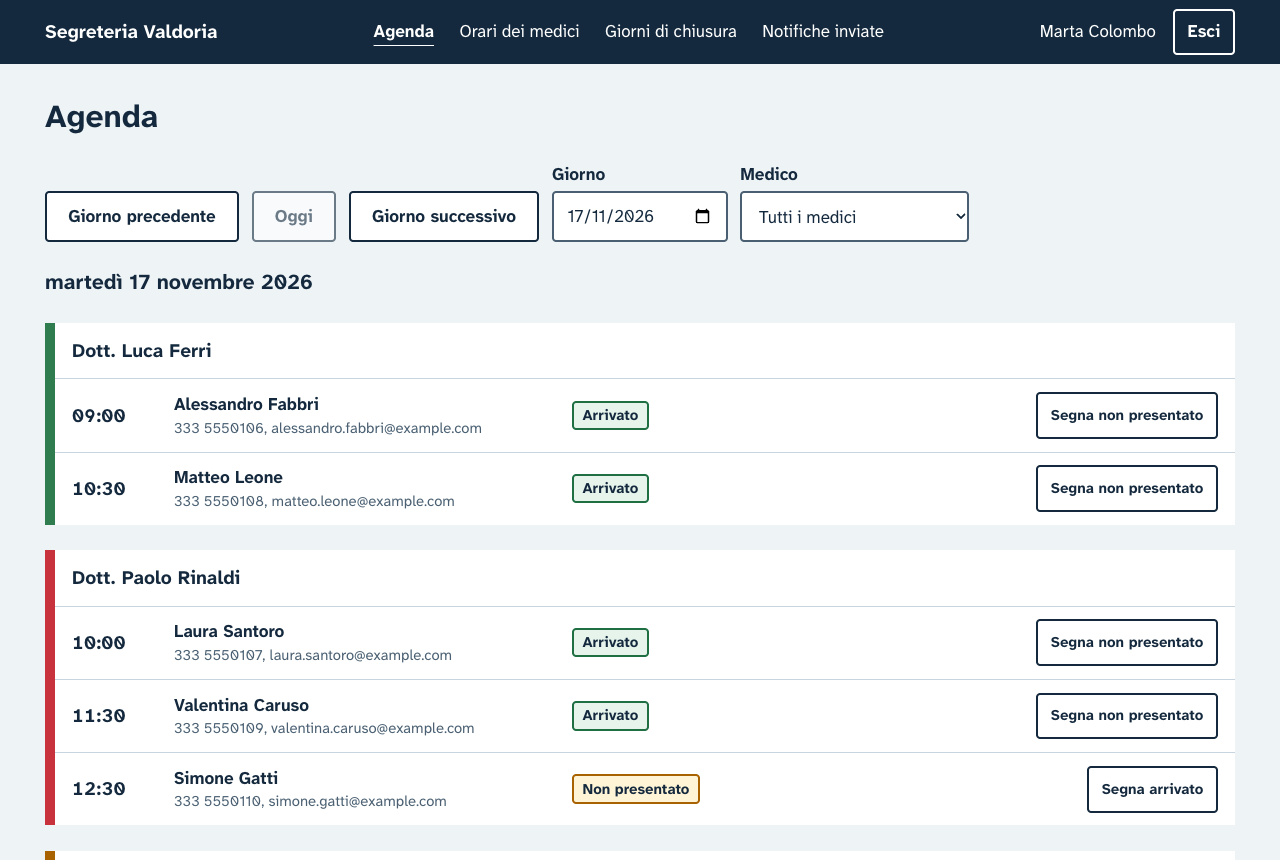
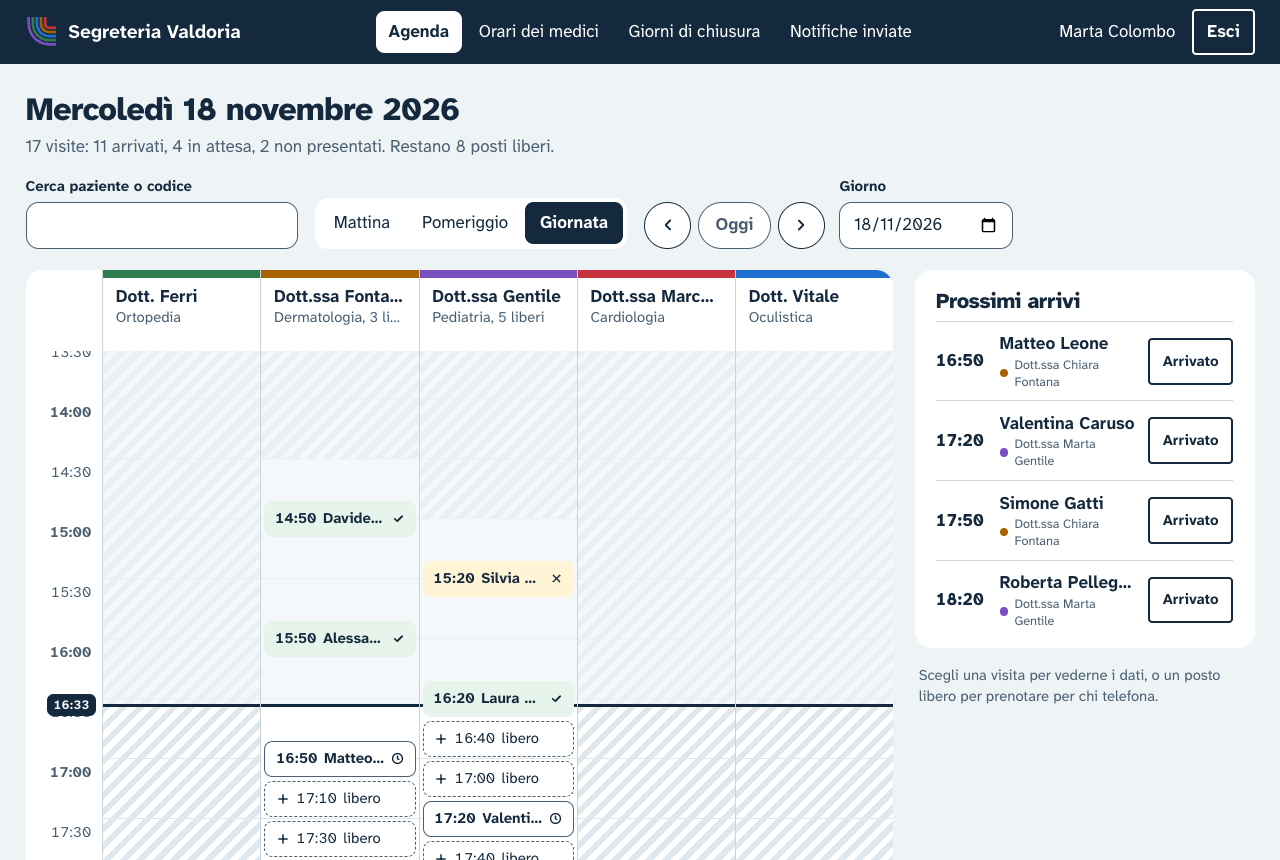
docs: new screenshots, a journey animation and a preview image
The README opens on the line map, shows the booking with its ticket and the front desk grid, and plays a fifteen-second animation of the journey. docs/social-preview.png is the image to set as the repository's social preview.

diff --git a/e2e/screenshots/readme.spec.ts b/e2e/screenshots/readme.spec.ts
@@ -2,32 +2,44 @@ import { test, type Page } from '@playwright/test';
 
 const FOLDER = '../docs/screenshots';
 
+/** Finished animations are fast-forwarded, so every picture shows the page at rest. */
 async function capture(page: Page, name: string, fullPage: boolean) {
   await page.screenshot({ path: `${FOLDER}/${name}.png`, fullPage, animations: 'disabled' });
 }
 
-async function openBooking(page: Page) {
+async function openHome(page: Page) {
   await page.goto('/');
-  await page.getByRole('button', { name: 'Cardiologia' }).waitFor();
+  // The first free slots arrive with a request of their own.
+  await page.getByText(/^Posti liberi aggiornati alle/).waitFor();
+}
+
+async function chooseFirstTime(page: Page, specialty: string, doctor: string) {
+  await page.getByRole('link', { name: specialty }).click();
+  await page.getByRole('link', { name: doctor }).click();
+  const firstTime = page.getByRole('button', { name: /^\d{1,2}:\d{2}$/ }).first();
+  await firstTime.waitFor();
+  return firstTime;
+}
+
+async function fillDetails(page: Page) {
+  await page.getByLabel('Nome e cognome').fill('Giulia Bianchi');
+  await page.getByLabel('Email').fill('giulia.bianchi@example.com');
+  await page.getByLabel('Telefono').fill('333 5550142');
 }
 
 test.describe('on a phone', () => {
   test.skip(({ isMobile }) => !isMobile);
 
   test('a patient books a visit', async ({ page }) => {
-    await openBooking(page);
+    await openHome(page);
     await capture(page, 'telefono-1-specialita', true);
 
-    await page.getByRole('button', { name: 'Cardiologia' }).click();
-    await page.getByRole('button', { name: 'Dott.ssa Elena Marchetti' }).click();
-    const firstTime = page.getByRole('button', { name: /^\d{2}:\d{2}$/ }).first();
-    await firstTime.waitFor();
-    await capture(page, 'telefono-2-orari', true);
+    const firstTime = await chooseFirstTime(page, 'Cardiologia', 'Dott.ssa Elena Marchetti');
+    // Not the whole page: the ticket waits at the bottom of the screen.
+    await capture(page, 'telefono-2-orari', false);
 
     await firstTime.click();
-    await page.getByLabel('Nome e cognome').fill('Giulia Bianchi');
-    await page.getByLabel('Email').fill('giulia.bianchi@example.com');
-    await page.getByLabel('Telefono').fill('333 5550142');
+    await fillDetails(page);
     await page.getByRole('button', { name: 'Conferma prenotazione' }).click();
     await page.getByRole('heading', { name: 'Prenotazione confermata' }).waitFor();
     await capture(page, 'telefono-3-conferma', true);
@@ -37,14 +49,11 @@ test.describe('on a phone', () => {
 test.describe('on a computer', () => {
   test.skip(({ isMobile }) => isMobile);
 
-  test('the booking page', async ({ page }) => {
-    await openBooking(page);
-    await page.getByRole('button', { name: 'Ortopedia' }).click();
-    await page.getByRole('button', { name: 'Dott. Luca Ferri' }).click();
-    await page
-      .getByRole('button', { name: /^\d{2}:\d{2}$/ })
-      .first()
-      .waitFor();
+  test('the home page and a booking', async ({ page }) => {
+    await openHome(page);
+    await capture(page, 'computer-pagina-iniziale', false);
+
+    await chooseFirstTime(page, 'Ortopedia', 'Dott. Luca Ferri');
     await capture(page, 'computer-prenotazione', true);
   });
 
@@ -53,7 +62,7 @@ test.describe('on a computer', () => {
     await page.getByLabel('Nome utente').fill('segreteria');
     await page.getByLabel('Password').fill('segreteria-demo');
     await page.getByRole('button', { name: 'Accedi' }).click();
-    await page.getByRole('region').first().waitFor();
+    await page.getByRole('region', { name: 'Griglia del giorno' }).waitFor();
     await capture(page, 'computer-agenda', false);
 
     await page.getByRole('link', { name: 'Notifiche inviate' }).click();

diff --git a/README.md b/README.md
@@ -8,13 +8,17 @@ Prenotazione delle visite per un poliambulatorio: il paziente prenota senza acco
 
 > Progetto dimostrativo. Il «Poliambulatorio Valdoria» non esiste: medici, pazienti e orari sono inventati e non c'è alcun dato sanitario reale.
 
-![La pagina di prenotazione: specialità e medico scelti, orari liberi del giorno](docs/screenshots/computer-prenotazione.png)
+![La pagina iniziale: ogni specialità è una linea colorata che scende da «Sei qui» e piega verso il suo nome, con i medici e il primo posto libero](docs/screenshots/computer-pagina-iniziale.png)
 
 <p>
-  <img src="docs/screenshots/telefono-1-specialita.png" alt="Sul telefono: scelta della specialità" width="240">
-  <img src="docs/screenshots/telefono-2-orari.png" alt="Sul telefono: scelta del giorno e dell'ora" width="240">
-  <img src="docs/screenshots/telefono-3-conferma.png" alt="Sul telefono: tagliando di conferma con il codice" width="240">
+  <img src="docs/screenshots/telefono-1-specialita.png" alt="Sul telefono: le linee delle specialità con il primo posto libero" width="240">
+  <img src="docs/screenshots/telefono-2-orari.png" alt="Sul telefono: la fascia della specialità con i passi, giorni e orari, il tagliando in basso" width="240">
+  <img src="docs/screenshots/telefono-3-conferma.png" alt="Sul telefono: il tagliando stampato con codice e codice QR" width="240">
 </p>
+
+L'interfaccia prende a prestito la segnaletica degli ospedali: una linea colorata per ogni specialità, da seguire fino al tagliando, che si stampa mentre scegli. Le scelte sono spiegate nella [decisione sul linguaggio visivo](docs/adr/0006-wayfinding-as-visual-language.md).
+
+![Il percorso in quindici secondi: le linee si disegnano, si sceglie la specialità, il medico e l'ora, e il tagliando esce dalla fessura con il codice](docs/percorso.gif)
 
 ## Provalo in un minuto
 
@@ -30,9 +34,9 @@ Quando i container sono pronti apri <http://localhost:8080>. Il primo avvio comp
 
 | Cosa provare | Dove |
 |---|---|
-| Prenotare una visita | <http://localhost:8080> |
-| Rivedere o annullare con codice ed email | «La mia prenotazione» |
-| Agenda, orari, chiusure, email inviate | <http://localhost:8080/segreteria> |
+| Prenotare una visita seguendo la linea della specialità | <http://localhost:8080> |
+| Rivedere, spostare o annullare con codice ed email; aggiungere la visita al calendario, stampare il tagliando | «La mia prenotazione» |
+| Agenda del giorno a griglia, prenotazioni per chi telefona, orari, chiusure, email inviate | <http://localhost:8080/segreteria> |
 | Documentazione dell'API | <http://localhost:8080/swagger-ui/index.html> |
 
 Credenziali di esempio per l'area segreteria:
@@ -48,7 +52,9 @@ Un giro consigliato: prenota una visita, poi entra come `segreteria` e apri «No
 
 Se la porta 8080 è occupata, copia `.env.example` in `.env` e cambia `APP_PORT`. Il sito risponde solo dal tuo computer; per aprirlo da un telefono sulla stessa rete imposta `APP_BIND=0.0.0.0` nello stesso file. Per ripartire dai dati iniziali: `docker compose down -v`.
 
-![L'agenda del giorno vista dalla segreteria](docs/screenshots/computer-agenda.png)
+![La prenotazione da computer: la fascia della specialità con i passi, giorni e orari, il tagliando che si stampa accanto](docs/screenshots/computer-prenotazione.png)
+
+![L'agenda della segreteria: una colonna per medico, le visite al loro orario, i posti liberi, la linea dell'ora attuale e i prossimi arrivi](docs/screenshots/computer-agenda.png)
 
 ## Cosa dimostra
 
@@ -61,12 +67,13 @@ Se la porta 8080 è occupata, copia `.env.example` in `.env` e cambia `APP_PORT`
 | Outbox transazionale: l'evento nasce nella stessa transazione della prenotazione | [`Outbox`](backend/src/main/java/io/github/ilsic/agenda/outbox/Outbox.java), [`BookingService`](backend/src/main/java/io/github/ilsic/agenda/booking/BookingService.java) |
 | Pubblicazione su Kafka con `FOR UPDATE SKIP LOCKED` | [`OutboxPublisher`](backend/src/main/java/io/github/ilsic/agenda/outbox/OutboxPublisher.java), [`OutboxPublisherTest`](backend/src/test/java/io/github/ilsic/agenda/outbox/OutboxPublisherTest.java) |
 | Consumer idempotente: un evento consegnato due volte produce una sola email | [`SimulatedEmailSender`](backend/src/main/java/io/github/ilsic/agenda/notification/SimulatedEmailSender.java) |
+| Spostare una visita in una sola transazione: mai un momento senza visita, o con due | [`BookingService.reschedule`](backend/src/main/java/io/github/ilsic/agenda/booking/BookingService.java), [`BookingReschedulingApiTest`](backend/src/test/java/io/github/ilsic/agenda/booking/BookingReschedulingApiTest.java) |
 | Promemoria il giorno prima della visita, con lo stesso percorso a eventi delle altre email | [`VisitReminders`](backend/src/main/java/io/github/ilsic/agenda/booking/VisitReminders.java), [`VisitRemindersTest`](backend/src/test/java/io/github/ilsic/agenda/booking/VisitRemindersTest.java) |
 | Un solo servizio a moduli, con i confini verificati a ogni build | [`ModularityTest`](backend/src/test/java/io/github/ilsic/agenda/ModularityTest.java) |
 | Sessione su cookie HttpOnly, CSRF, due ruoli, tutto il resto negato | [`SecurityConfiguration`](backend/src/main/java/io/github/ilsic/agenda/identity/SecurityConfiguration.java), [`AccessRulesTest`](backend/src/test/java/io/github/ilsic/agenda/identity/AccessRulesTest.java) |
 | Errori in formato Problem Details, distinti da un `type` stabile | [`BookingExceptionHandler`](backend/src/main/java/io/github/ilsic/agenda/booking/BookingExceptionHandler.java) |
 | Contratto dell'API sempre allineato: schema OpenAPI → tipi TypeScript, controllati in CI | [`OpenApiSpecTest`](backend/src/test/java/io/github/ilsic/agenda/OpenApiSpecTest.java), [`client.ts`](frontend/src/api/client.ts) |
-| Interfaccia pensata per il telefono e accessibile, con axe a ogni schermata | [`BookingPage`](frontend/src/patient/BookingPage.tsx), [`accessibility.ts`](e2e/tests/accessibility.ts) |
+| Interfaccia pensata per il telefono e accessibile, con axe a ogni schermata | [`Home`](frontend/src/patient/Home.tsx), [`DayGrid`](frontend/src/staff/agenda/DayGrid.tsx), [`accessibility.ts`](e2e/tests/accessibility.ts) |
 | Test end to end attraverso tutto lo stack, Kafka compreso | [`staff-agenda.spec.ts`](e2e/tests/staff-agenda.spec.ts) |
 
 ## Architettura

diff --git a/README.en.md b/README.en.md
@@ -8,13 +8,17 @@ Appointment booking for an outpatient clinic: patients book without an account, 
 
 > Demonstration project. "Poliambulatorio Valdoria" does not exist: doctors, patients and times are invented and there is no real health data. The user interface is in Italian.
 
-![The booking page: specialty and doctor chosen, free times of the day](docs/screenshots/computer-prenotazione.png)
+![The home page: every specialty is a coloured line that comes down from "Sei qui" (you are here) and bends towards its name, with its doctors and first free slot](docs/screenshots/computer-pagina-iniziale.png)
 
 <p>
-  <img src="docs/screenshots/telefono-1-specialita.png" alt="On a phone: choosing the specialty" width="240">
-  <img src="docs/screenshots/telefono-2-orari.png" alt="On a phone: choosing day and time" width="240">
-  <img src="docs/screenshots/telefono-3-conferma.png" alt="On a phone: confirmation slip with the booking code" width="240">
+  <img src="docs/screenshots/telefono-1-specialita.png" alt="On a phone: the lines of the specialties with their first free slot" width="240">
+  <img src="docs/screenshots/telefono-2-orari.png" alt="On a phone: the band of the specialty with the steps, days and times, the ticket at the bottom" width="240">
+  <img src="docs/screenshots/telefono-3-conferma.png" alt="On a phone: the printed ticket with booking code and QR code" width="240">
 </p>
+
+The interface borrows hospital wayfinding: one coloured line per specialty, to follow all the way to the ticket, which prints as you choose. The choices are explained in the [decision on the visual language](docs/adr/0006-wayfinding-as-visual-language.md).
+
+![The journey in fifteen seconds: the lines are painted, specialty, doctor and time are chosen, and the ticket slides out of the slot with its code](docs/percorso.gif)
 
 ## Try it in a minute
 
@@ -30,9 +34,9 @@ When the containers are ready, open <http://localhost:8080>. The first start bui
 
 | What to try | Where |
 |---|---|
-| Book a visit | <http://localhost:8080> |
-| View or cancel it with code and e-mail | "La mia prenotazione" |
-| Agenda, doctors' hours, closure days, sent e-mails | <http://localhost:8080/segreteria> |
+| Book a visit by following the line of a specialty | <http://localhost:8080> |
+| View, move or cancel it with code and e-mail; add it to a calendar, print the ticket | "La mia prenotazione" |
+| The day's agenda as a grid, bookings for callers, doctors' hours, closure days, sent e-mails | <http://localhost:8080/segreteria> |
 | API documentation | <http://localhost:8080/swagger-ui/index.html> |
 
 Demo credentials for the staff area:
@@ -48,7 +52,9 @@ A suggested tour: book a visit, then sign in as `segreteria` and open "Notifiche
 
 If port 8080 is taken, copy `.env.example` to `.env` and change `APP_PORT`. The site only answers from your own computer; to open it from a phone on the same network set `APP_BIND=0.0.0.0` in the same file. To start again from the initial data: `docker compose down -v`.
 
-![The agenda of the day as the staff see it](docs/screenshots/computer-agenda.png)
+![Booking on a computer: the band of the specialty with the steps, days and times, the ticket printing beside them](docs/screenshots/computer-prenotazione.png)
+
+![The front desk agenda: one column per doctor, visits at their time, free slots, the line of the present and the next arrivals](docs/screenshots/computer-agenda.png)
 
 ## What it demonstrates
 
@@ -61,12 +67,13 @@ If port 8080 is taken, copy `.env.example` to `.env` and change `APP_PORT`. The 
 | Transactional outbox: the event is born in the same transaction as the booking | [`Outbox`](backend/src/main/java/io/github/ilsic/agenda/outbox/Outbox.java), [`BookingService`](backend/src/main/java/io/github/ilsic/agenda/booking/BookingService.java) |
 | Publishing to Kafka with `FOR UPDATE SKIP LOCKED` | [`OutboxPublisher`](backend/src/main/java/io/github/ilsic/agenda/outbox/OutboxPublisher.java), [`OutboxPublisherTest`](backend/src/test/java/io/github/ilsic/agenda/outbox/OutboxPublisherTest.java) |
 | Idempotent consumer: an event delivered twice produces one e-mail | [`SimulatedEmailSender`](backend/src/main/java/io/github/ilsic/agenda/notification/SimulatedEmailSender.java) |
+| Moving a visit in one transaction: never a moment without a visit, or with two | [`BookingService.reschedule`](backend/src/main/java/io/github/ilsic/agenda/booking/BookingService.java), [`BookingReschedulingApiTest`](backend/src/test/java/io/github/ilsic/agenda/booking/BookingReschedulingApiTest.java) |
 | A reminder the day before the visit, through the same event path as the other e-mails | [`VisitReminders`](backend/src/main/java/io/github/ilsic/agenda/booking/VisitReminders.java), [`VisitRemindersTest`](backend/src/test/java/io/github/ilsic/agenda/booking/VisitRemindersTest.java) |
 | One modular service, with boundaries verified on every build | [`ModularityTest`](backend/src/test/java/io/github/ilsic/agenda/ModularityTest.java) |
 | Session in an HttpOnly cookie, CSRF, two roles, everything else denied | [`SecurityConfiguration`](backend/src/main/java/io/github/ilsic/agenda/identity/SecurityConfiguration.java), [`AccessRulesTest`](backend/src/test/java/io/github/ilsic/agenda/identity/AccessRulesTest.java) |
 | Errors as Problem Details, told apart by a stable `type` | [`BookingExceptionHandler`](backend/src/main/java/io/github/ilsic/agenda/booking/BookingExceptionHandler.java) |
 | API contract always in step: OpenAPI schema → TypeScript types, checked in CI | [`OpenApiSpecTest`](backend/src/test/java/io/github/ilsic/agenda/OpenApiSpecTest.java), [`client.ts`](frontend/src/api/client.ts) |
-| Phone-first, accessible interface, with axe on every screen | [`BookingPage`](frontend/src/patient/BookingPage.tsx), [`accessibility.ts`](e2e/tests/accessibility.ts) |
+| Phone-first, accessible interface, with axe on every screen | [`Home`](frontend/src/patient/Home.tsx), [`DayGrid`](frontend/src/staff/agenda/DayGrid.tsx), [`accessibility.ts`](e2e/tests/accessibility.ts) |
 | End-to-end tests through the whole stack, Kafka included | [`staff-agenda.spec.ts`](e2e/tests/staff-agenda.spec.ts) |
 
 ## Architecture
